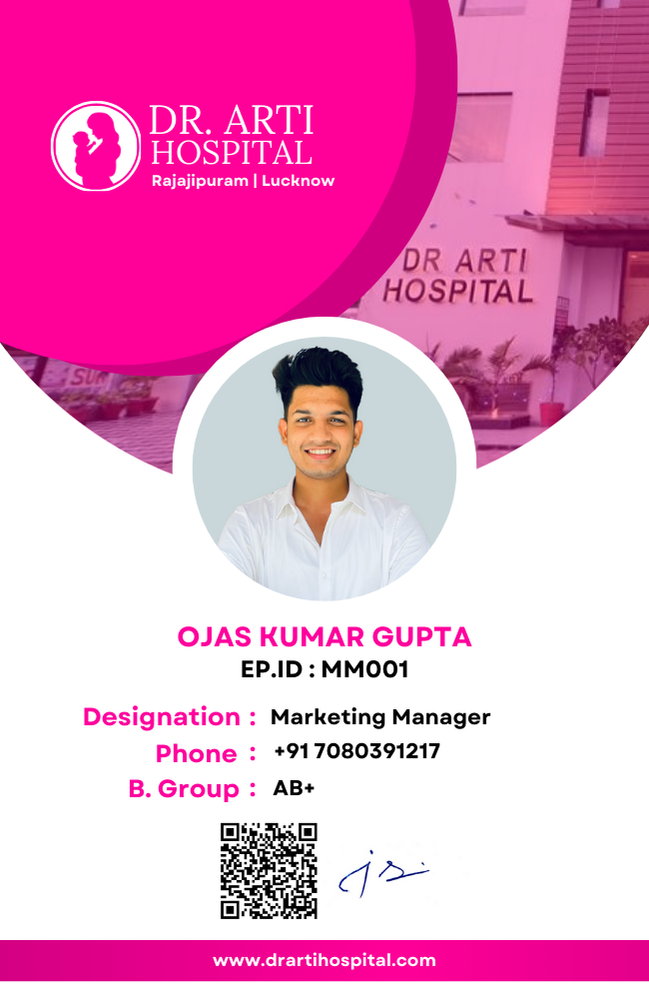
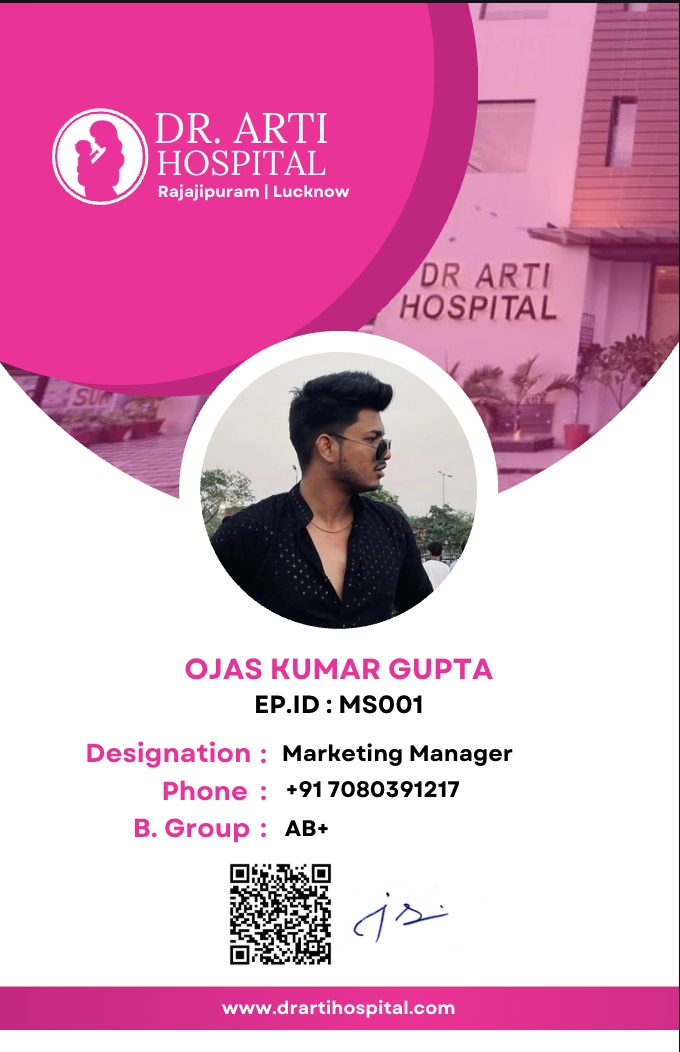
new

diff --git a/src/data/staff.ts b/src/data/staff.ts
@@ -272,7 +272,7 @@ export const staffMembers: StaffMember[] = [
     name: 'Ojas Kumar Gupta',
     designation: 'Marketing Manager',
     department: 'managing',
-    photo: '/ojas.png',
+    photo: '/ojas.jpg',
     idcard: '/ojasid.png',
     phone: '+91 70803 91217',
     joiningDate: '10 December 2024',
@@ -286,6 +286,25 @@ export const staffMembers: StaffMember[] = [
     gender: 'Male',
     qualifications: ['Bachelor of Technology (Computer Science and Engineering)']
   },
+  {
+    id: '16',
+    name: 'Shareefa',
+    designation: 'Saff Nurse',
+    department: 'nursing',
+    photo: '/ojas.png',
+    idcard: '/ojasid.png',
+    phone: '+91 70803 91217',
+    joiningDate: '10 December 2024',
+    bloodGroup: 'AB+',
+    dob: '28 April 2025',
+    shiftTimings: 'Hybrid',
+    employeeId: 'NUR006',
+    address: 'D-17/63 , Rajajipuram, Lucknow',
+    emergencyContact: '+91 70803 91217',
+    idIssueDate: '01-01-2025',
+    gender: 'Male',
+    qualifications: ['Bachelor of Technology (Computer Science and Engineering)']
+  }
 
 ];
 
